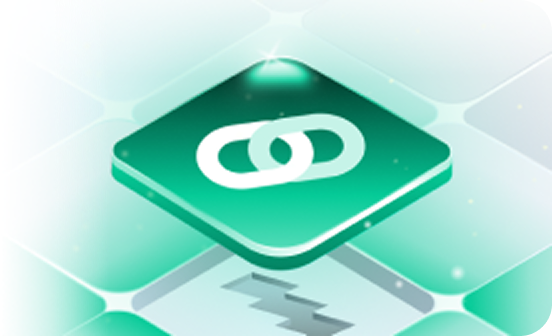
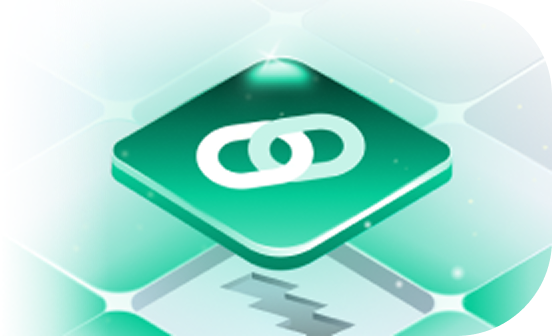
💄 Design : 구글폼 변환 버튼 이미지 변경

Changed region(s): [[0.8315, 0.744, 1.0, 1.0], [0.9855, 0.1488, 1.0, 0.1786]]

diff --git a/src/pages/home/Home.tsx b/src/pages/home/Home.tsx
@@ -263,7 +263,7 @@ export const Home = () => {
 				</div>
 
 				<div className="px-4 pb-4">
-					<div className="bg-gray-50 rounded-2xl flex items-center justify-between gap-4">
+					<div className="bg-gray-50 rounded-[24px] flex items-center justify-between gap-4">
 						<button
 							type="button"
 							onClick={handleCreateSurvey}
